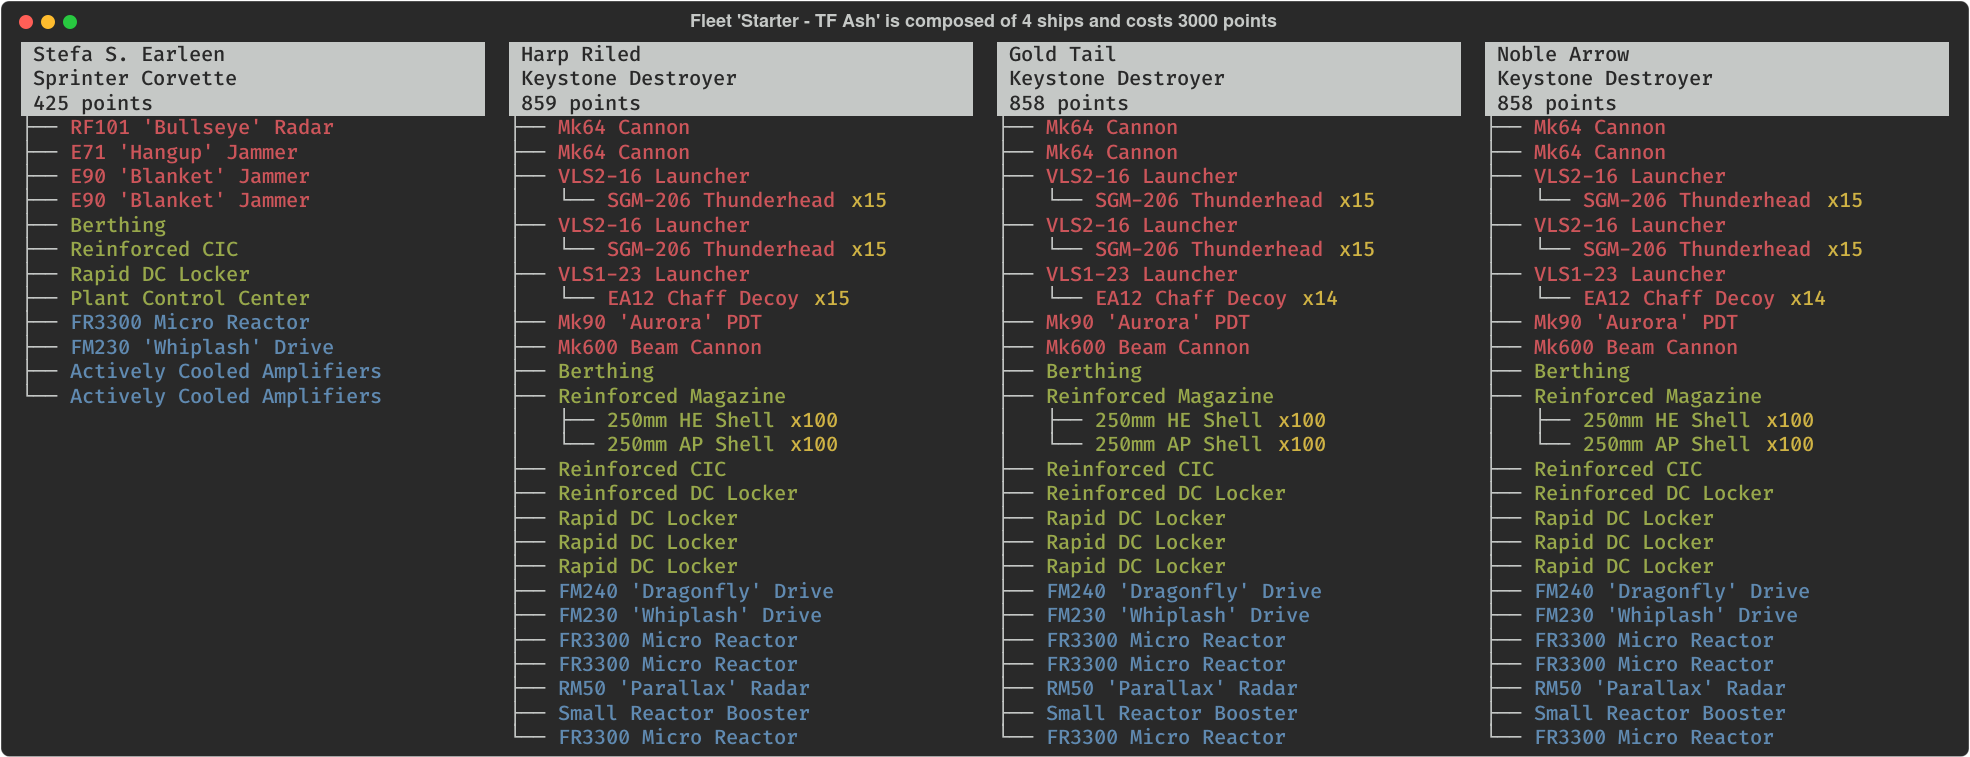
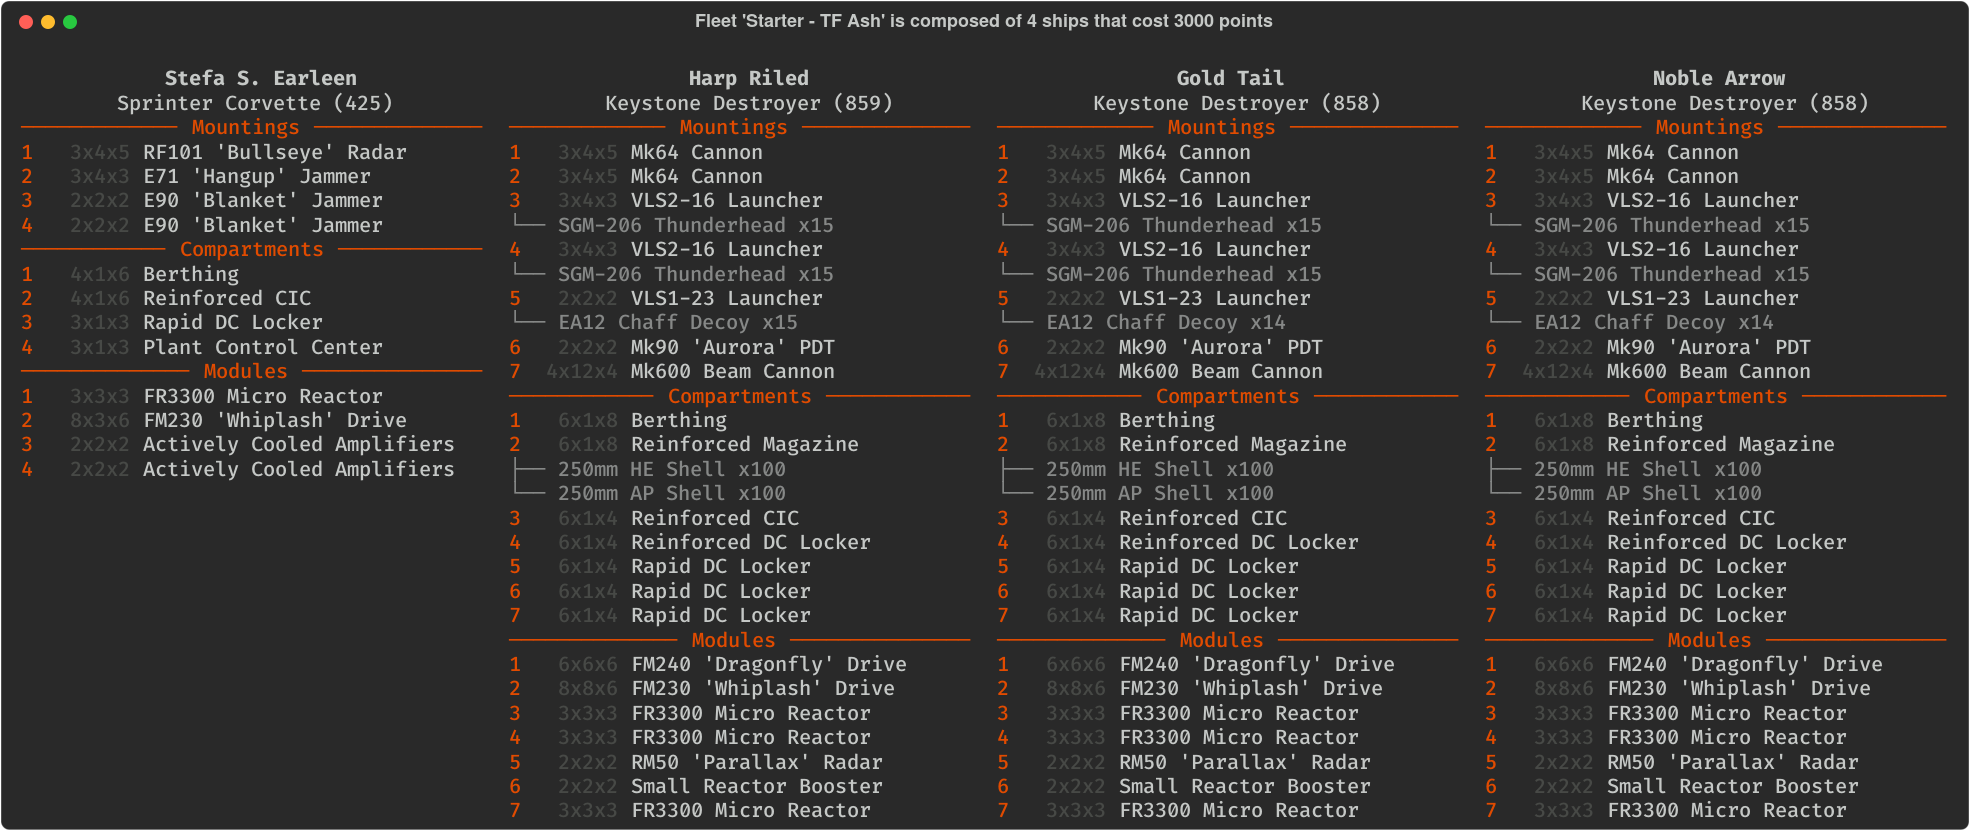
Rework look and feel

Changed region(s): [[0.0, 0.0, 0.9909, 1.0]]

diff --git a/nfcli/printer.py b/nfcli/printer.py
@@ -4,13 +4,14 @@ from abc import ABC
 from typing import TYPE_CHECKING, List, Optional, Tuple, Type
 
 from rich.columns import Columns
-from rich.console import Console, RenderableType
+from rich.console import Console, Group, RenderableType
 from rich.padding import Padding
 from rich.panel import Panel
+from rich.rule import Rule
 from rich.text import Text
 from rich.tree import Tree
 
-from nfcli import COLUMN_WIDTH, STACK_COLUMNS
+from nfcli import COLUMN_WIDTH, STACK_COLUMNS, nfc_theme
 
 if TYPE_CHECKING:
     from nfcli.model import Fleet, Ship, ShipFleetType, Socket
@@ -28,24 +29,40 @@ class FleetPrinter(ABC):
 
     def add_components(self, tree: Tree, socket: "Socket"):
         for content in socket.contents:
-            tree.add(f"{content.name} [yellow]x{content.quantity}[/yellow] ", style="i")
+            tree.add(f"{content.name} x{content.quantity} ", style="i d")
 
-    def add_sockets(self, tree: Tree, sockets: List["Socket"], color: str):
+    def get_sockets(
+        self, title: str, sockets: List["Socket"], color: Optional[str] = "white"
+    ) -> Group:
+        elements = [Rule(Text(f"{title}", style="orange"), style="orange")]
         for socket in sockets:
-            slot_size = "x".join([str(size) for size in socket.slot_size])
-            slot_info = f"{socket.slot_name} [{slot_size}]"
-            subtree = tree.add(f"{socket.name} \n[dim]{slot_info}[/dim] ", style=color)
-            self.add_components(subtree, socket)
+            slot_split = socket.slot_name.split(" ")
+            slot_name = slot_split[-1]
+            just_size = 7 if int(slot_name) < 10 else 6
+            slot_size = "x".join([str(size) for size in socket.slot_size]).rjust(just_size)
+            slot_info = f"[orange]{slot_name}[/orange] [grey]{slot_size}[/grey]"
+            tree = Tree(
+                Text.from_markup(f"{slot_info} {socket.name}", overflow="ignore"),
+                style=color,
+                guide_style="dim",
+            )
+            self.add_components(tree, socket)
+            elements.append(tree)
+        if not sockets:
+            elements.append("[grey]" + "<EMPTY>".center(self.column_width) + "[/grey]")
+        return Group(*elements)
 
 
 class ColumnPrinter(FleetPrinter):
     def get_ship(self, ship: "Ship") -> RenderableType:
-        tree = Tree(Text(f" {ship.name} \n {ship.hull} \n {ship.cost} points ", style="r"))
-        self.add_sockets(tree, ship.mountings, "red")
-        self.add_sockets(tree, ship.compartments, "green")
-        self.add_sockets(tree, ship.modules, "blue")
-        self.add_sockets(tree, ship.invalid, "white")
-        return Padding(tree, (0, 1))
+        line1 = ship.name.center(self.column_width)
+        line2 = f"{ship.hull} ({ship.cost})".center(self.column_width)
+        text = f"\n[b]{line1}[/b]\n{line2}"
+        mountings = self.get_sockets("Mountings", ship.mountings)
+        compartments = self.get_sockets("Compartments", ship.compartments)
+        modules = self.get_sockets("Modules", ship.modules)
+        group = Group(text, mountings, compartments, modules)
+        return Padding(group, (0, 1))
 
     def print(self, fleet: "Fleet"):
         super().print(fleet)
@@ -54,25 +71,14 @@ class ColumnPrinter(FleetPrinter):
 
 
 class StackPrinter(FleetPrinter):
-    def get_sockets(self, ship: "Ship", prop: str, color: str):
-        tree = Tree(Text(f" {prop.title()} ", style="r"))
-        self.add_sockets(tree, getattr(ship, prop), color)
-        return Padding(tree, (0, 1, 1, 1))
-
     def get_ship(self, ship: "Ship", no_ship_title: Optional[bool] = False) -> RenderableType:
-        props_colors = [
-            ("mountings", "red"),
-            ("compartments", "green"),
-            ("modules", "blue"),
+        props = ["mountings", "compartments", "modules"]
+        sockets = [
+            Padding(self.get_sockets(prop.title(), getattr(ship, prop)), (0, 1)) for prop in props
         ]
-        sockets = [self.get_sockets(ship, prop, color) for (prop, color) in props_colors]
-        title = None if no_ship_title else ship.title
-        return Columns(
-            sockets,
-            title=title,
-            width=self.column_width,
-            padding=(0, 0),
-        )
+        if not no_ship_title:
+            self.console.print("\n" + ship.title.center(self.console.width), highlight=False)
+        return Columns(sockets, width=self.column_width, padding=(0, 0))
 
     def print(self, fleet: "Fleet"):
         super().print(fleet)
@@ -92,7 +98,7 @@ def determine_printer(num_of_ships: int) -> Tuple[int, Type[FleetPrinter]]:
 
 
 def fleet_printer_factory(printer: str, num_of_ships: int):
-    console = Console()
+    console = Console(theme=nfc_theme)
     if printer == "auto":
         style = "stack" if console.width < num_of_ships * COLUMN_WIDTH else "column"
         style = style if num_of_ships > 3 else "stack"

diff --git a/nfcli/writer.py b/nfcli/writer.py
@@ -1,4 +1,3 @@
-import math
 import os
 import tempfile
 from pathlib import Path
@@ -7,7 +6,7 @@ from typing import TYPE_CHECKING, List, TextIO
 import cairosvg
 from rich.console import Console
 
-from nfcli import COLUMN_WIDTH
+from nfcli import COLUMN_WIDTH, nfc_theme
 from nfcli.printer import FleetPrinter, determine_printer
 
 if TYPE_CHECKING:
@@ -34,7 +33,7 @@ def get_temp_filename(ext: str) -> str:
 
 def get_printer(num_of_ships: int) -> FleetPrinter:
     width, printer = determine_printer(num_of_ships)
-    console = Console(width=width, record=True, color_system="standard", force_terminal=True)
+    console = Console(width=width, record=True, theme=nfc_theme, force_terminal=True)
     console.set_alt_screen(True)
     return printer(COLUMN_WIDTH, console, no_title=True)
 

diff --git a/nfcli/model.py b/nfcli/model.py
@@ -76,7 +76,7 @@ class Ship(Named, Printable, Writeable):
     @property
     def title(self) -> str:
         a_or_an = "an" if self.hull[0] == "A" else "a"
-        return f"'{self.name}' is {a_or_an} {self.hull} that costs {self.cost} points"
+        return f"[b]{self.name}[/b] is {a_or_an} {self.hull} that costs {self.cost} points"
 
     @property
     def mountings(self) -> List[Socket]:

diff --git a/nfcli/database.py b/nfcli/database.py
@@ -33,7 +33,11 @@ class Database:
         return SOCKET_UNKNOWN.title()
 
     def load_json(self, path_to_file: str) -> Dict:
-        with open(path_to_file, "r") as f:
+        try:
+            f = open(path_to_file, "r")
+        except EnvironmentError:
+            return {}
+        else:
             return json.load(f)
 
     def get_name(self, name: str) -> str:

diff --git a/nfcli/__init__.py b/nfcli/__init__.py
@@ -1,7 +1,12 @@
 __version__ = "0.4.0"
 
+from rich.style import Style
+from rich.theme import Theme
+
 STACK_COLUMNS = 3
 COLUMN_WIDTH = 40
+
+nfc_theme = Theme({"orange": "#e14b00", "grey": "#474946"})
 
 
 def load_path(path: str) -> str:

diff --git a/todo.md b/todo.md
@@ -7,7 +7,6 @@
 
 ## CLI
 
-* Use data scrapped from the game (<https://gitlab.com/nebfltcom/data>)
 * Validate content read from fleet files (solves overflow bugs)
 * Fleet and ship analysis and tips
 * Test "to clipboard" option for images
